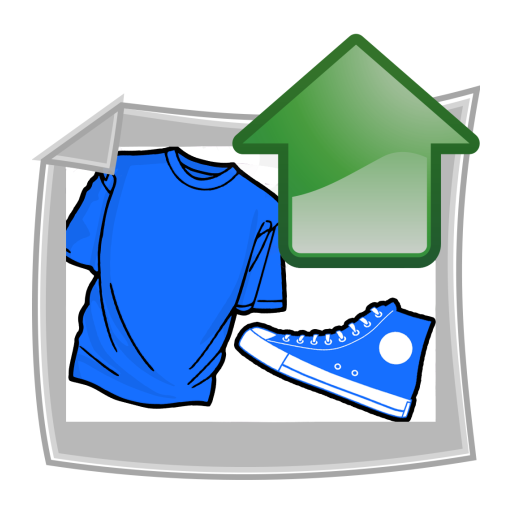
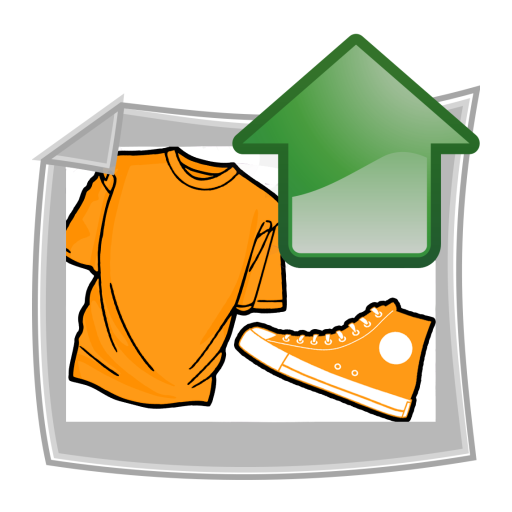
Minor changes in AddPost class:
- Cleared debugging option 'not my post'
- Changed default images to match app design
- Scaled images weight in layout
- Fixed text being deleted when being re-focused.

Changed region(s): [[0.125, 0.2812, 0.8438, 0.8125]]

diff --git a/app/src/main/java/net/cloudapp/chooser/chooser/views/AddPostView.java b/app/src/main/java/net/cloudapp/chooser/chooser/views/AddPostView.java
@@ -26,12 +26,13 @@ public class AddPostView extends AppCompatActivity implements View.OnClickListen
     private static final int SELECT_PHOTO = 100;
     private int selectedImage = 0;
     CheckBox promotionCheckbox;
-    Button buttonAddPost, buttonCancel, buttonNotMyPost;
+    Button buttonAddPost, buttonCancel;
     EditText editTextTitle, editTextDescription1, editTextDescription2;
     ImageView image1, image2;
     TextView tokens;
     Bitmap image1BitMap, image2BitMap;
     public boolean promote;
+    public boolean desc1edited, desc2edited;
     CloudinaryClient cloudinaryClient;
 
 
@@ -45,19 +46,21 @@ public class AddPostView extends AppCompatActivity implements View.OnClickListen
         getSupportActionBar().setDisplayHomeAsUpEnabled(true);
         updateTokens();
         promote = false;
+        desc1edited = false;
+        desc2edited = false;
     }
 
     private void setOnClickListeners() {
         buttonAddPost.setOnClickListener(this);
         buttonCancel.setOnClickListener(this);
-        buttonNotMyPost.setOnClickListener(this);
         image1.setOnClickListener(this);
         image2.setOnClickListener(this);
         promotionCheckbox.setOnClickListener(this);
         editTextDescription1.setOnFocusChangeListener(new View.OnFocusChangeListener() {
             @Override
             public void onFocusChange(View v, boolean hasFocus) {
-                if(hasFocus){
+                if (hasFocus && !desc1edited){
+                    desc1edited = true;
                     editTextDescription1.setText("");
                 }
             }
@@ -66,21 +69,12 @@ public class AddPostView extends AppCompatActivity implements View.OnClickListen
         editTextDescription2.setOnFocusChangeListener(new View.OnFocusChangeListener() {
             @Override
             public void onFocusChange(View v, boolean hasFocus) {
-                if(hasFocus){
+                if (hasFocus && !desc2edited){
+                    desc2edited = true;
                     editTextDescription2.setText("");
                 }
             }
         });
-
-        editTextTitle.setOnFocusChangeListener(new View.OnFocusChangeListener() {
-            @Override
-            public void onFocusChange(View v, boolean hasFocus) {
-                if(hasFocus){
-                    editTextTitle.setText("");
-                }
-            }
-        });
-
     }
 
     private void setViewControls() {
@@ -92,7 +86,6 @@ public class AddPostView extends AppCompatActivity implements View.OnClickListen
         editTextDescription2 = (EditText) findViewById(R.id.description2EditText);
         buttonAddPost = (Button) findViewById(R.id.postButton);
         buttonCancel = (Button) findViewById(R.id.cancelButton);
-        buttonNotMyPost = (Button) findViewById(R.id.notMyPostButton);
         promotionCheckbox = (CheckBox) findViewById(R.id.checkBox);
     }
 
@@ -110,16 +103,6 @@ public class AddPostView extends AppCompatActivity implements View.OnClickListen
 
         PostsUploadController postsUploadController = new PostsUploadController();
         postsUploadController.uploadPost(this, title, image1BitMap, image2BitMap, description1, description2);
-    }
-
-    private void uploadNotMyPost(){
-            String title, description1, description2;
-            title = editTextTitle.getText().toString();
-            description1 = editTextDescription1.getText().toString();
-            description2 = editTextDescription2.getText().toString();
-
-            PostsUploadController postsUploadController = new PostsUploadController();
-            postsUploadController.uploadPost(this, title, image1BitMap, image2BitMap, description1, description2, true);
     }
 
     @Override
@@ -172,15 +155,6 @@ public class AddPostView extends AppCompatActivity implements View.OnClickListen
                 break;
 
             case R.id.cancelButton:
-                finish();
-                break;
-
-            case R.id.notMyPostButton:
-                if(editTextTitle.getText().toString().equals("") || image1BitMap == null || image2BitMap == null){
-                    Toast.makeText(getApplicationContext(), "Post details missing...", Toast.LENGTH_SHORT).show();
-                    break;
-                }
-                uploadNotMyPost();
                 finish();
                 break;
 

diff --git a/app/src/main/java/net/cloudapp/chooser/chooser/Controller/PostsUploadController.java b/app/src/main/java/net/cloudapp/chooser/chooser/Controller/PostsUploadController.java
@@ -7,12 +7,8 @@ import net.cloudapp.chooser.chooser.Common.SessionDetails;
 
 public class PostsUploadController {
 
-    public void uploadPost(Context context, String title, Bitmap image1BitMap, Bitmap image2BitMap, String description1, String description2) {
-        uploadPost(context, title, image1BitMap, image2BitMap, description1, description2, false);
-    }
-
-    public void uploadPost(Context context, String title, Bitmap image1BitMap, Bitmap image2BitMap, String description1, String description2, boolean notMyPost){
-        String token = notMyPost? "NotMyPost" : SessionDetails.getInstance().getAccessToken().getToken();
+    public void uploadPost(Context context, String title, Bitmap image1BitMap, Bitmap image2BitMap, String description1, String description2){
+        String token = SessionDetails.getInstance().getAccessToken().getToken();
         PostUploadTask uploadTask = new PostUploadTask(title, description1, description2, image1BitMap, image2BitMap, token, context);
         PostUploaderAsyncTask uploaderAsync = new PostUploaderAsyncTask(context);
         uploaderAsync.execute(uploadTask);
